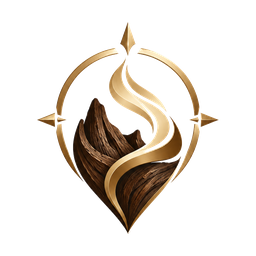
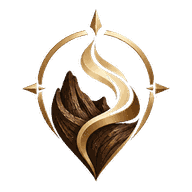
fix(assets): the brand mark renders as a white square, and the page has no social card
Two defects, both visible to anyone who opens the site.

THE BRAND MARK. The header and footer render /logo.png inside a 38px green
circle at 30px. The file was a 1254x1254 PNG on an opaque near-white
background, and the CSS applies brightness(0) invert(1) to it. Every pixel
of that background was therefore whitened into an opaque white rectangle,
and the emblem underneath it was invisible. The mark was a solid white
square with no logo in it. /logo.png is now the emblem alone, re-centred
on its own alpha bounding box with proportional padding, transparent, at
128px — 4,712 bytes against 1,467,279. The filter still applies, and the
mark now reads as the emblem.

THE SOCIAL CARD. Every page declared twitter:card 'summary_large_image'
and emitted no image at all, so every share on a social platform rendered
as a text-only link with no preview. There is now /og-image.png — 1200x630,
the house palette, the emblem, the wordmark in Newsreader, the Arabic
name in Amiri, and four pill labels — and it is wired into buildMetadata
so the Open Graph and Twitter blocks both point at it.

Also regenerated favicon.ico (now four sizes, 758 bytes against 51,190),
favicon.png, icon.png and apple-icon.png from the same source, and
corrected the /favicon.png declaration in the root layout, which claimed
sizes '32x32' for a 256x256 file.

Total public/ weight drops from 1.6 MB to 64 KB.

Changed region(s): [[0.125, 0.0625, 0.875, 0.9375]]

diff --git a/apps/web/src/lib/metadata.ts b/apps/web/src/lib/metadata.ts
@@ -111,11 +111,20 @@ export function buildMetadata({
       siteName: SITE_NAME,
       type,
       locale: locale === 'ar' ? 'ar_AE' : 'en_US',
+      images: [
+        {
+          url: `${SITE_URL}/og-image.png`,
+          width: 1200,
+          height: 630,
+          alt: 'OudGuide — Worldwide Oud & Fragrance Knowledge Portal',
+        },
+      ],
     },
     twitter: {
       card: 'summary_large_image',
       title: trimmedTitle,
       description: trimmedDesc,
+      images: [`${SITE_URL}/og-image.png`],
     },
     ...(noindex || localeNotIndexable
       ? { robots: { index: false, follow: false } }
